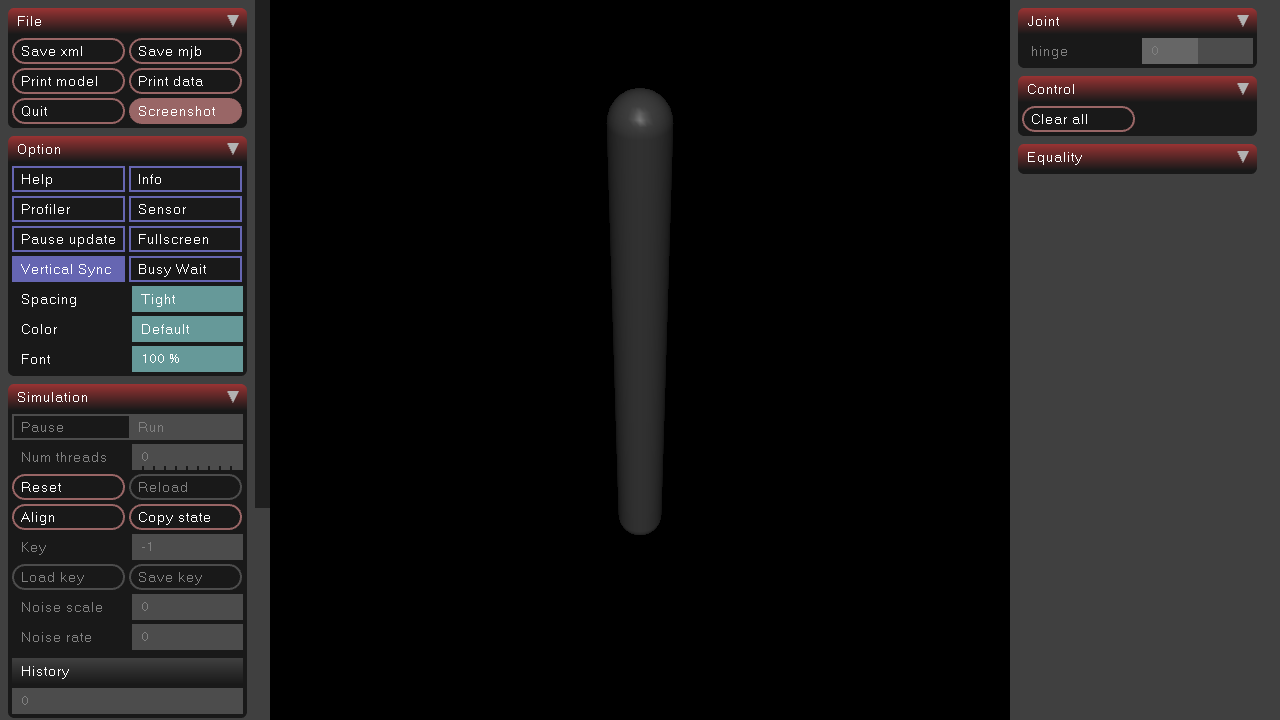
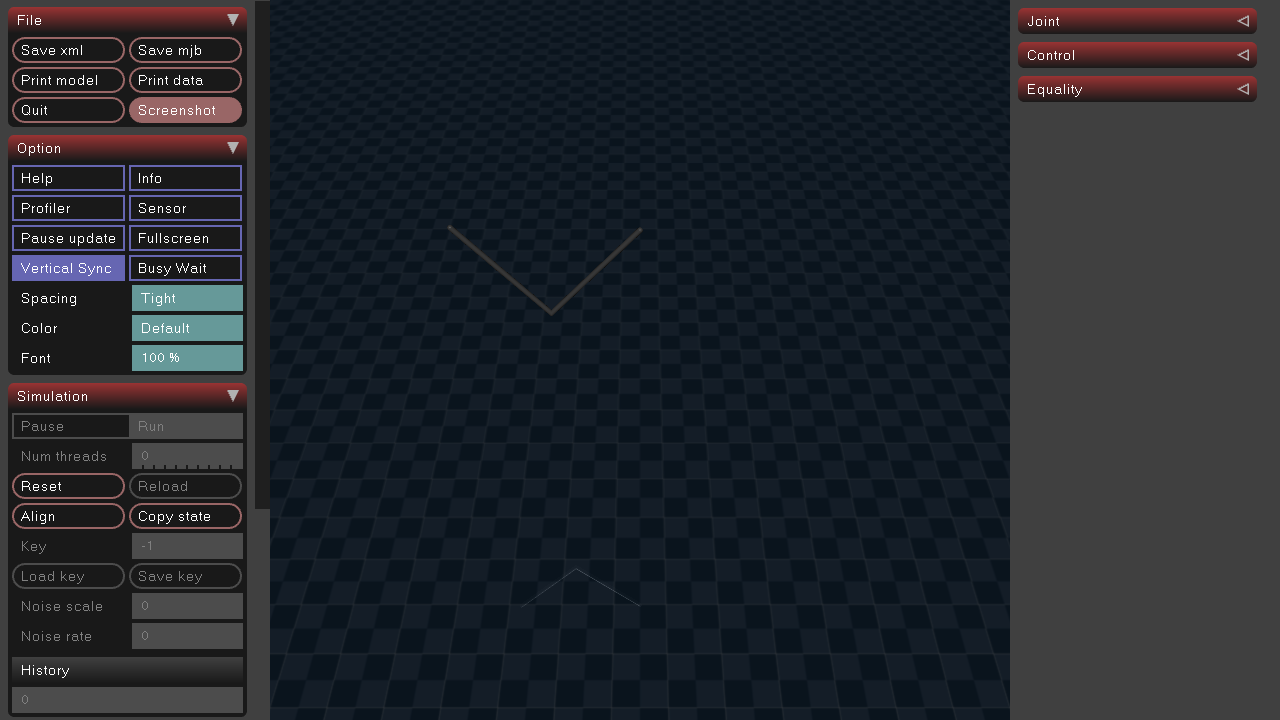
Double Pendulum | Stage floorboard

diff --git a/src/hello_mujoco.py b/src/hello_mujoco.py
@@ -18,15 +18,17 @@ xml = """
     </asset>
 
     <worldbody>
-        <body name="pendulum" pos="0 0 2.5">
-            <joint name="hinge" type="hinge" axis="0 1 0"/>
+        <geom name="floor" type="plane" size="0 0 .25" material="matplane"/>
 
-            <geom
-                type="capsule"
-                fromto="0 0 0 0 0 -1"
-                size="0.05"
-                mass="1"
-            />
+        <body name="link1" pos="0 0 2.5">
+            <joint name="hinge1" type="hinge" axis="0 1 0"/>
+            <geom type="capsule" fromto="0 0 0 0 0 -1" size="0.02" mass="1"/>
+            
+            <!-- Fixed pos to -1 so it attaches exactly to the bottom tip of link1 -->
+            <body name="link2" pos="0 0 -1">
+                <joint name="hinge2" type="hinge" axis="0 1 0"/>
+                <geom type="capsule" fromto="0 0 0 0 0 -1" size="0.02" mass="1"/>
+            </body> <!-- Fixed the missing > bracket here -->
         </body>
     </worldbody>
 </mujoco>
@@ -35,7 +37,8 @@ xml = """
 model = mujoco.MjModel.from_xml_string(xml)
 data = mujoco.MjData(model)
 
-data.qpos[0] = 0.7
+data.qpos[0] = 2
+data.qpos[1] = 0.2
 
 with mujoco.viewer.launch_passive(model, data) as viewer:
 
